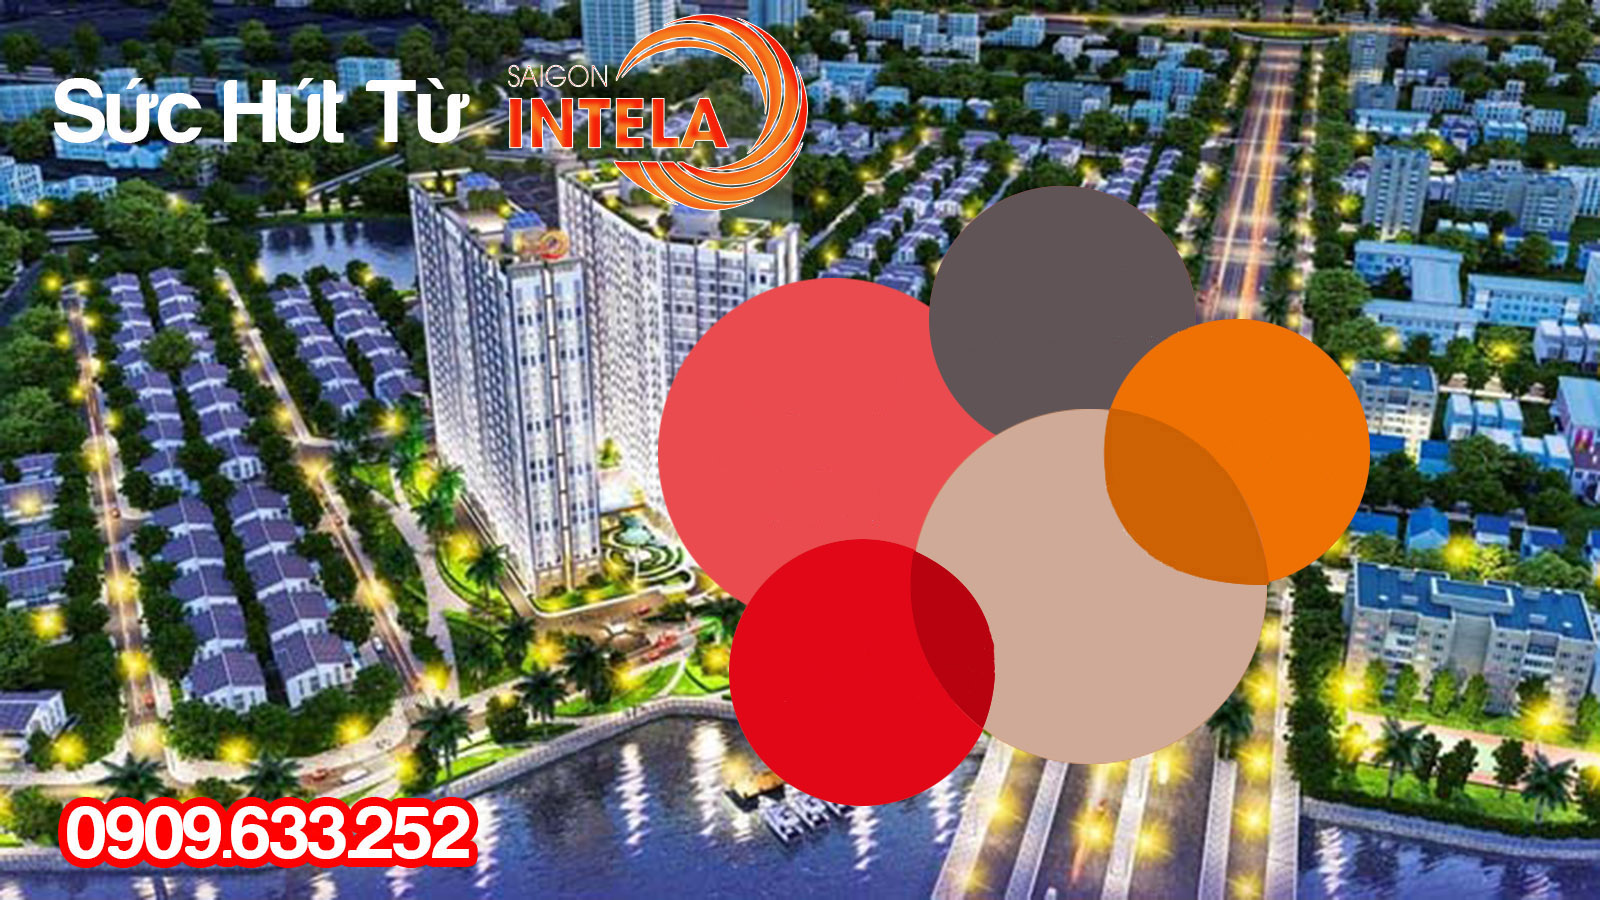
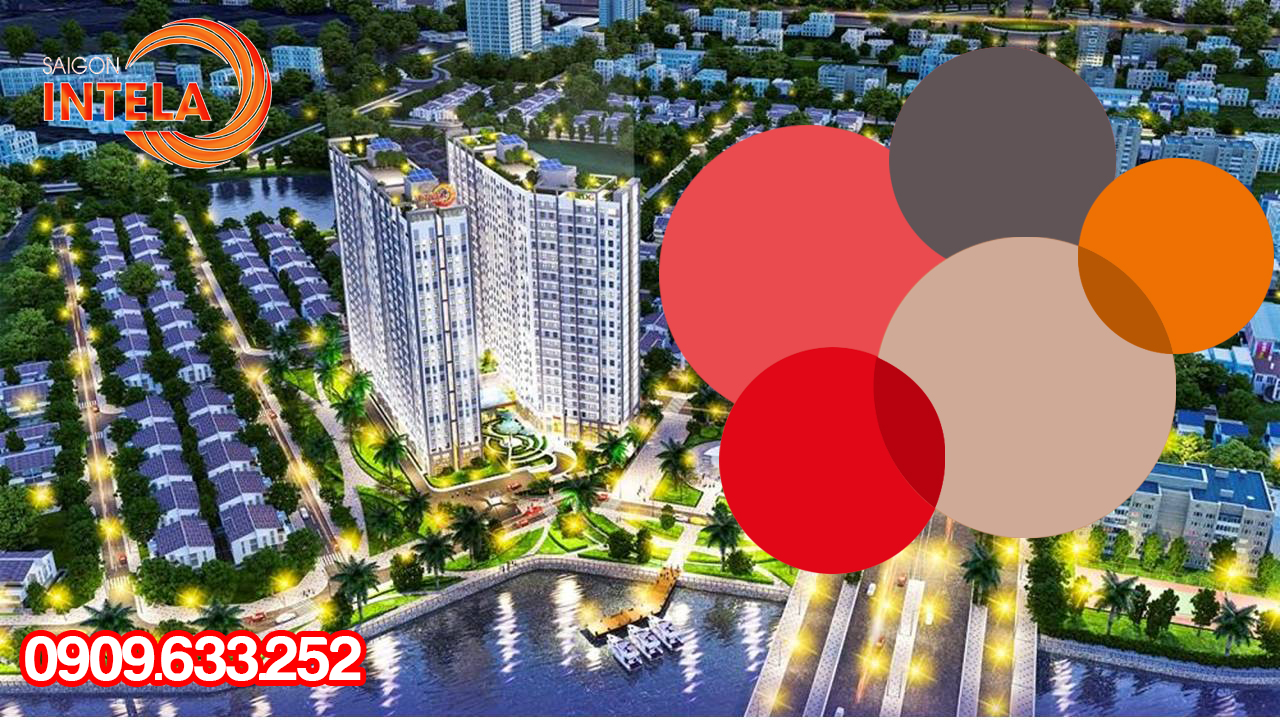
ok

diff --git a/css/frontend.css b/css/frontend.css
@@ -481,8 +481,8 @@ This class is added to the container
 #slider2 .slider-text-thongminh {
   position: absolute;
   z-index: 1;
-  top: 70%;
-  left: 47%;
+  top: 61%;
+  left: 58%;
   color: white;
   text-align: center;
   font-size: 30px;
@@ -497,8 +497,8 @@ This class is added to the container
 #slider2 .slider-text-khacbiet {
   position: absolute;
   z-index: 1;
-  top: 40%;
-  left: 73%;
+  top: 28%;
+  left: 87%;
   text-align: center;
   font-size: 33px;
   font-weight: 900;
@@ -512,8 +512,8 @@ This class is added to the container
 #slider2 .slider-text-pttt {
   position: absolute;
   z-index: 1;
-  top: 40%;
-  left: 45%;
+  top: 29%;
+  left: 56%;
   text-align: center;
   font-size: 34px;
   font-weight: 900;
@@ -527,8 +527,8 @@ This class is added to the container
 #slider2 .slider-text-vt {
   position: absolute;
   z-index: 1;
-  top: 30%;
-  left: 59%;
+  top: 17%;
+  left: 71%;
   text-align: center;
   font-size: 24px;
   font-weight: 900;
@@ -542,10 +542,10 @@ This class is added to the container
 #slider2 .slider-text-ti {
   position: absolute;
   z-index: 1;
-  top: 55%;
-  left: 62%;
+  top: 44%;
+  left: 74%;
   text-align: center;
-  font-size: 32px;
+  font-size: 30px;
   font-weight: 900;
   line-height: 1;
 }
@@ -603,8 +603,8 @@ This class is added to the container
   #slider2 .slider-text-thongminh {
     position: absolute;
     z-index: 1;
-    top: 70%;
-    left: 47%;
+    top: 60%;
+    left: 58%;
     color: white;
     text-align: center;
     font-size: 24px;
@@ -617,8 +617,8 @@ This class is added to the container
   #slider2 .slider-text-khacbiet {
     position: absolute;
     z-index: 1;
-    top: 42%;
-    left: 72%;
+    top: 27%;
+    left: 88%;
     text-align: center;
     font-size: 28px;
     font-weight: 900;
@@ -630,8 +630,8 @@ This class is added to the container
   #slider2 .slider-text-pttt {
     position: absolute;
     z-index: 1;
-    top: 40%;
-    left: 45%;
+    top: 29%;
+    left: 57%;
     text-align: center;
     font-size: 34px;
     font-weight: 900;
@@ -643,8 +643,8 @@ This class is added to the container
   #slider2 .slider-text-vt {
     position: absolute;
     z-index: 1;
-    top: 30%;
-    left: 59%;
+    top: 17%;
+    left: 72%;
     text-align: center;
     font-size: 19px;
     font-weight: 900;
@@ -656,10 +656,10 @@ This class is added to the container
   #slider2 .slider-text-ti {
     position: absolute;
     z-index: 1;
-    top: 55%;
-    left: 62%;
+    top: 44%;
+    left: 75%;
     text-align: center;
-    font-size: 30px;
+    font-size: 25px;
     font-weight: 900;
     line-height: 1;
   }

diff --git a/local/resources/assets/sass/fe.slider.scss b/local/resources/assets/sass/fe.slider.scss
@@ -93,8 +93,8 @@
   .slider-text-thongminh{
     position: absolute;
     z-index: 1;
-    top: 70%;
-    left: 47%;
+    top: 61%;
+    left: 58%;
     color:white;
     text-align: center;
     font-size: 30px;
@@ -107,8 +107,8 @@
   .slider-text-khacbiet{
     position: absolute;
     z-index: 1;
-    top: 40%;
-    left: 73%;
+    top: 28%;
+    left: 87%;
     text-align: center;
     font-size: 33px;
     font-weight: 900;
@@ -120,8 +120,8 @@
   .slider-text-pttt{
     position: absolute;
     z-index: 1;
-    top: 40%;
-    left: 45%;
+    top: 29%;
+    left: 56%;
     text-align: center;
     font-size: 34px;
     font-weight: 900;
@@ -133,8 +133,8 @@
   .slider-text-vt{
     position: absolute;
     z-index: 1;
-    top: 30%;
-    left: 59%;
+    top: 17%;
+    left: 71%;
     text-align: center;
     font-size: 24px;
     font-weight: 900;
@@ -146,10 +146,10 @@
   .slider-text-ti{
     position: absolute;
     z-index: 1;
-    top: 55%;
-    left: 62%;
+    top: 44%;
+    left: 74%;
     text-align: center;
-    font-size: 32px;
+    font-size: 30px;
     font-weight: 900;
     line-height: 1;
     a{
@@ -195,8 +195,8 @@
     .slider-text-thongminh{
       position: absolute;
       z-index: 1;
-      top: 70%;
-      left: 47%;
+      top: 60%;
+      left: 58%;
       color:white;
       text-align: center;
       font-size: 24px;
@@ -209,8 +209,8 @@
     .slider-text-khacbiet{
       position: absolute;
       z-index: 1;
-      top: 42%;
-      left: 72%;
+      top: 27%;
+      left: 88%;
       text-align: center;
       font-size: 28px;
       font-weight: 900;
@@ -222,8 +222,8 @@
     .slider-text-pttt{
       position: absolute;
       z-index: 1;
-      top: 40%;
-      left: 45%;
+      top: 29%;
+      left: 57%;
       text-align: center;
       font-size: 34px;
       font-weight: 900;
@@ -235,8 +235,8 @@
     .slider-text-vt{
       position: absolute;
       z-index: 1;
-      top: 30%;
-      left: 59%;
+      top: 17%;
+      left: 72%;
       text-align: center;
       font-size: 19px;
       font-weight: 900;
@@ -248,10 +248,10 @@
     .slider-text-ti{
       position: absolute;
       z-index: 1;
-      top: 55%;
-      left: 62%;
+      top: 44%;
+      left: 75%;
       text-align: center;
-      font-size: 30px;
+      font-size: 25px;
       font-weight: 900;
       line-height: 1;
       a{

diff --git a/local/resources/views/frontend/master.blade.php b/local/resources/views/frontend/master.blade.php
@@ -54,6 +54,20 @@
         <a href="tel:0909633252" class="phone_animation_circle_fill_img"><i class="fa fa-phone" aria-hidden="true"></i></a>
     </div>
 </div>
+<script type="text/javascript">
+    /* <![CDATA[ */
+    var google_conversion_id = 869102790;
+    var google_custom_params = window.google_tag_params;
+    var google_remarketing_only = true;
+    /* ]]> */
+</script>
+<script type="text/javascript" src="//www.googleadservices.com/pagead/conversion.js">
+</script>
+<noscript>
+    <div style="display:inline;">
+        <img height="1" width="1" style="border-style:none;" alt="" src="//googleads.g.doubleclick.net/pagead/viewthroughconversion/869102790/?guid=ON&amp;script=0"/>
+    </div>
+</noscript>
 </body>
 
 </Html>

diff --git a/local/resources/views/frontend/footer/index.blade.php b/local/resources/views/frontend/footer/index.blade.php
@@ -16,8 +16,7 @@
                     {{--<p><strong>Nhà mẫu:</strong> <span class="dc">131 Nguyễn Khoái, P1, Quận 4, TP.Hồ Chí Minh</span></p>--}}
                     <p><strong>Đường dây nóng:</strong> 0909.633.252</p>
 
-                    <p><strong>Website:</strong>
-                    </p><div class="fr">saigonintelahcm.com</div>
+                    <p><strong>Website:</strong> saigonintelahcm.com</p>
                     <p></p>
                     <p><strong>Email:</strong> saigonintelahcm@gmail.com</p>
                 </div>
